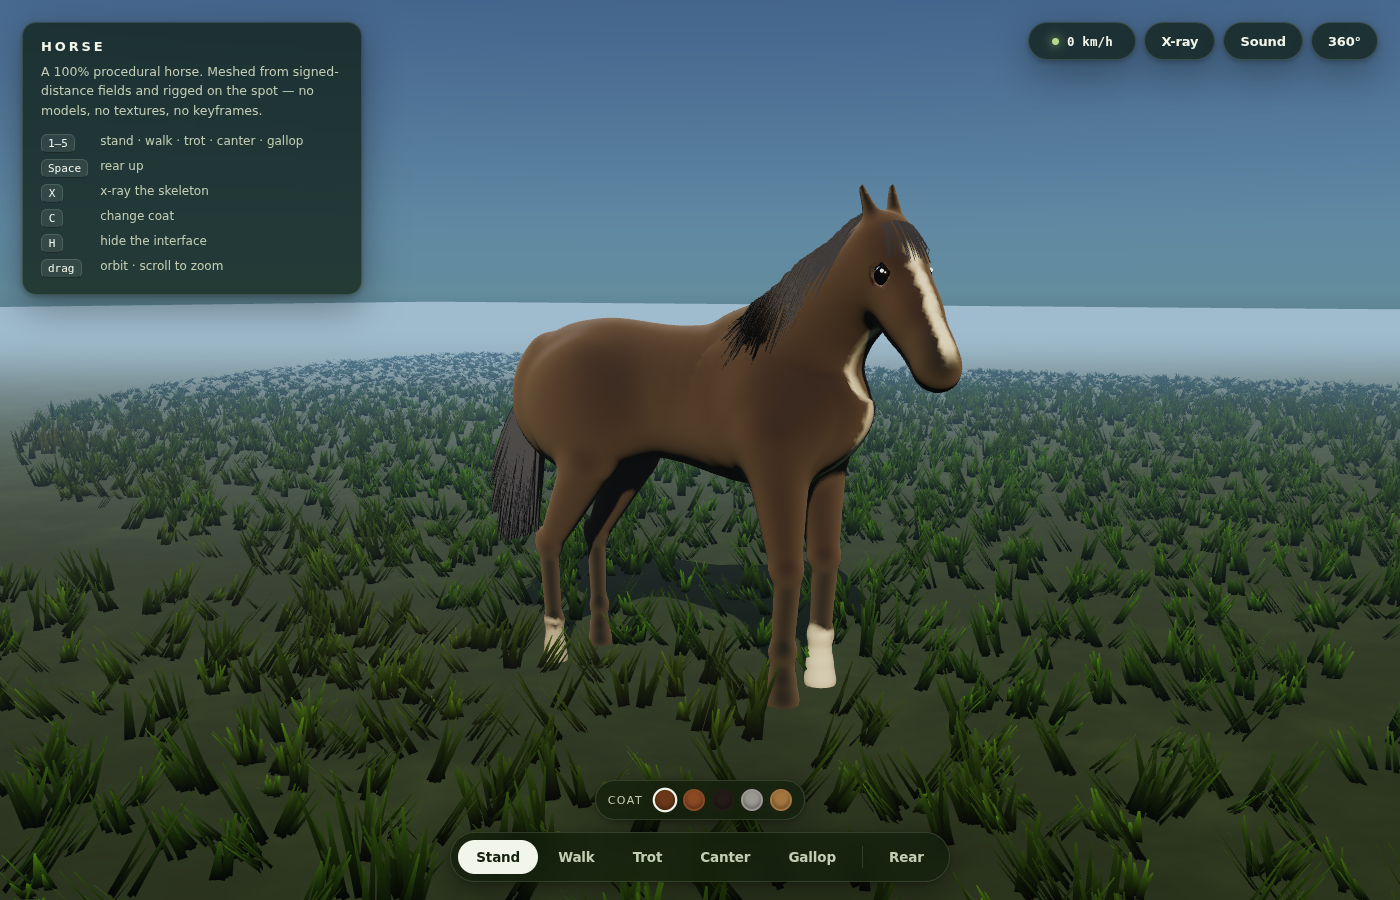
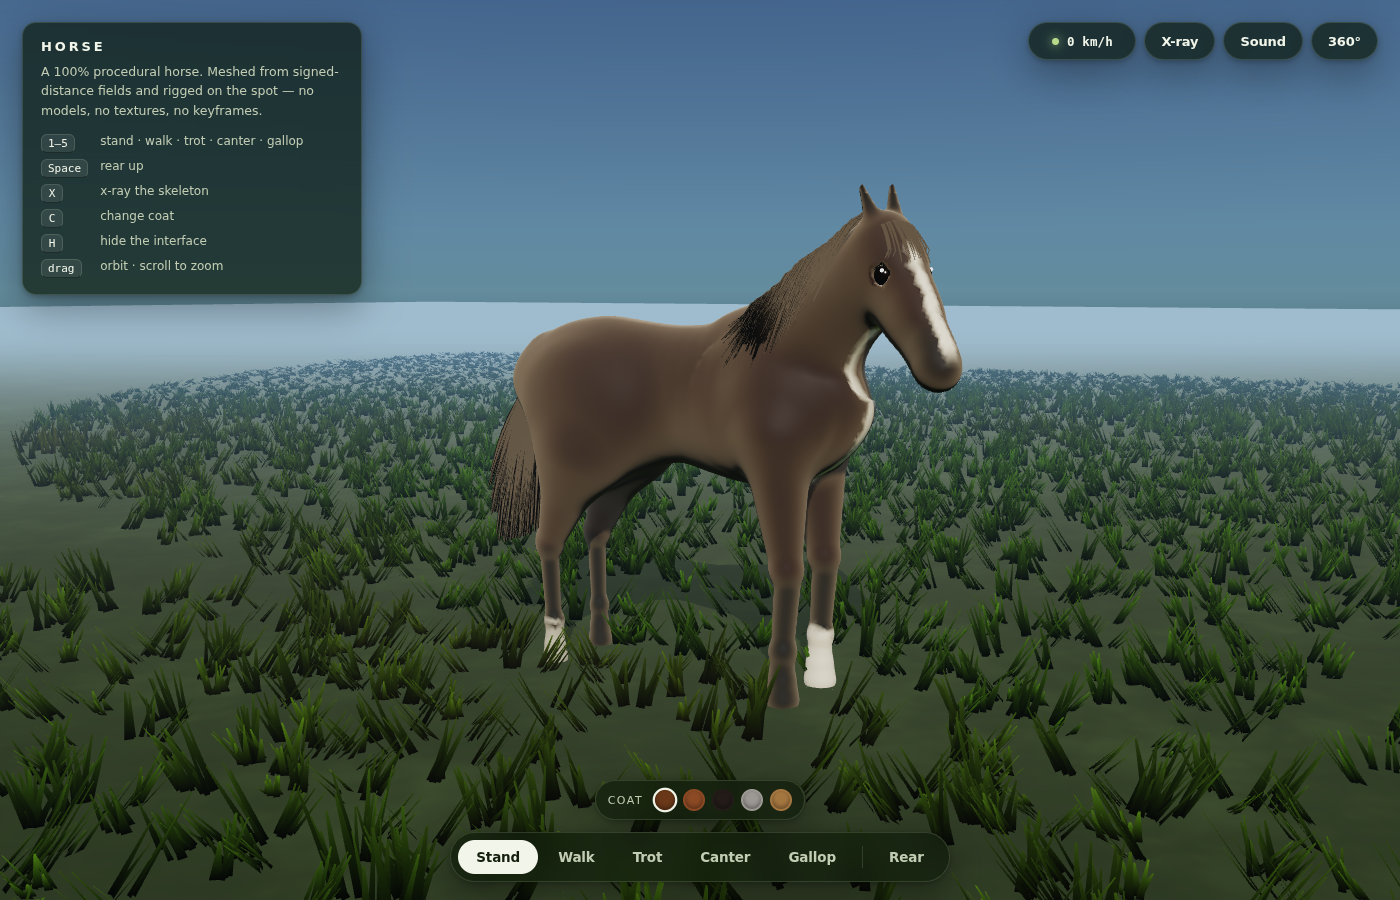
Give the hindquarter form and stop the rear view going black
The rear looked unbalanced mostly because it was unlit, not because the
shape was wrong: with the sun behind the horse the whole hindquarter
collapsed into one dark mass and the shadow edge read as a crease.

- a buttock ellipsoid fills the undercut below the tail, so the rear is a
  straight wall down to the point of buttock instead of a notch the tail
  hung in
- the quarter/thigh is now a single generously blended mass that carries
  the body into the leg, instead of two masses meeting at a hard seam
- muscular upper limbs, thin cannons: the forearm and gaskin are thicker
  where the muscle is and still taper to a fine leg below the knee/hock
- material: less plastic (roughness 0.66, sheen 0.42, no clearcoat)
- lighting: lower sun, stronger hemisphere, a rim light, and a fill that
  follows the camera, so whichever side you orbit to keeps its form

diff --git a/src/horse/anatomy.ts b/src/horse/anatomy.ts
@@ -115,10 +115,10 @@ const BODY: Section[] = [
   sec(0.30, 1.625, 1.00, 0.185), // withers / girth
   sec(0.04, 1.585, 1.015, 0.196), // barrel
   sec(-0.28, 1.588, 1.06, 0.19), // loin
-  sec(-0.55, 1.615, 1.03, 0.178), // croup
-  sec(-0.76, 1.575, 0.95, 0.168, 0, 0.165), // buttock
-  sec(-0.90, 1.49, 1.01, 0.145, 0, 0.125), // point of buttock
-  sec(-0.975, 1.43, 1.12, 0.10, 0, 0.085), // tail head
+  sec(-0.55, 1.615, 1.13, 0.176), // croup
+  sec(-0.76, 1.575, 1.16, 0.158, 0, 0.16), // buttock
+  sec(-0.90, 1.495, 1.21, 0.132, 0, 0.12), // point of buttock
+  sec(-0.975, 1.435, 1.28, 0.088, 0, 0.082), // tail head
 ];
 
 /** Withers, crest and throat are separate so they can read as ridges. */
@@ -244,16 +244,15 @@ function legPrims(side: number, front: boolean): Prim[] {
     ];
   }
   return [
-    // quarter / thigh mass
-    ellipsoid([-0.56, 1.24, z], [0.21, 0.275, 0.135], [0, 0, 0.14], 0.19),
-    ellipsoid([-0.72, 1.22, z * 0.85], [0.16, 0.20, 0.10], [0, 0, 0.2], 0.14),
+    // quarter / thigh mass: the buttock and the stifle in one smooth form
+    ellipsoid([-0.60, 1.15, z], [0.27, 0.31, 0.145], [0, 0, 0.16], 0.28),
     // gaskin (tibia)
-    cone(s(-0.56, 0.98), s(-0.795, 0.575), 0.125, 0.056, 0.06),
+    cone(s(-0.62, 1.02), s(-0.795, 0.575), 0.165, 0.06, 0.12),
     // point of hock
-    sphere(s(-0.80, 0.555), 0.058, 0.028),
+    sphere(s(-0.80, 0.555), 0.062, 0.03),
     ellipsoid([-0.822, 0.60, z], [0.05, 0.055, 0.042], [0, 0, 0.25], 0.03),
     // cannon
-    cone(s(-0.802, 0.53), s(-0.786, 0.22), 0.047, 0.04, 0.018),
+    cone(s(-0.802, 0.53), s(-0.786, 0.22), 0.046, 0.038, 0.018),
     sphere(s(-0.782, 0.198), 0.05, 0.02),
     cone(s(-0.781, 0.182), s(-0.777, 0.088), 0.042, 0.048, 0.018),
     cone(s(-0.775, 0.082), s(-0.772, 0.012), 0.05, 0.062, 0.014),

diff --git a/src/main.ts b/src/main.ts
@@ -70,7 +70,7 @@ controls.update();
 const sky = createSky(DAY);
 scene.add(sky);
 
-const sun = new THREE.DirectionalLight(DAY.sun.getHex(), 3.35);
+const sun = new THREE.DirectionalLight(DAY.sun.getHex(), 2.2);
 sun.position.copy(DAY.sunDir).multiplyScalar(9);
 sun.castShadow = true;
 sun.shadow.mapSize.set(2048, 2048);
@@ -88,12 +88,17 @@ scene.add(sun);
 scene.add(sun.target);
 sun.target.position.set(0, 0.9, 0);
 
-const hemi = new THREE.HemisphereLight(0xbcd8ff, 0x3d5227, 1.0);
+const hemi = new THREE.HemisphereLight(0xc6dcff, 0x4a6130, 1.85);
 scene.add(hemi);
 // a subtle fill from the opposite side keeps the shadow side readable
-const fill = new THREE.DirectionalLight(0xdfe9ff, 0.55);
-fill.position.set(-5.5, 3.2, -4.5);
+const fill = new THREE.DirectionalLight(0xdfe9ff, 1.3);
+fill.position.set(-6, 3.0, -5);
 scene.add(fill);
+
+// rim light: separates the horse's silhouette from the meadow
+const rim = new THREE.DirectionalLight(0xfff0d0, 0.6);
+rim.position.set(-3.5, 2.4, -6);
+scene.add(rim);
 
 const ground = createGround();
 scene.add(ground);
@@ -328,6 +333,11 @@ function frame() {
   skeleton.update();
   controls.update();
   sky.position.copy(camera.position);
+
+  // a soft fill that follows the camera, so no side of the horse is ever
+  // left as an unreadable dark mass when you orbit round the back
+  fill.position.copy(camera.position).sub(controls.target).normalize().multiplyScalar(6);
+  fill.position.y += 2.5;
 
   // keep the shadow frustum centred on the horse
   sun.position.copy(DAY.sunDir).multiplyScalar(9).add(new THREE.Vector3(0, 0, 0));

diff --git a/src/horse/horse.ts b/src/horse/horse.ts
@@ -91,11 +91,12 @@ export class Horse {
 
     const mat = new THREE.MeshPhysicalMaterial({
       vertexColors: true,
-      roughness: 0.78,
+      roughness: 0.66,
       metalness: 0,
-      sheen: 0.35,
-      sheenRoughness: 0.7,
-      sheenColor: new THREE.Color("#e8c9a8"),
+      // coat sheen: the soft, slightly directional highlight horsehair has
+      sheen: 0.42,
+      sheenRoughness: 0.6,
+      sheenColor: new THREE.Color("#e6cfae"),
     });
 
     this.body = new THREE.SkinnedMesh(geo, mat);
